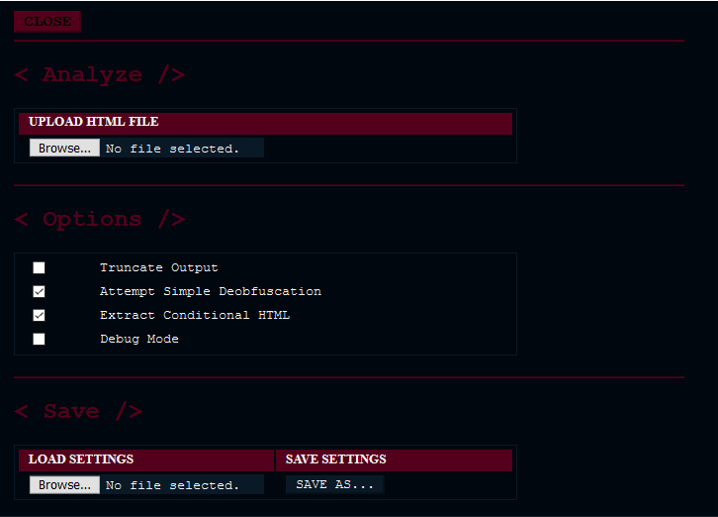
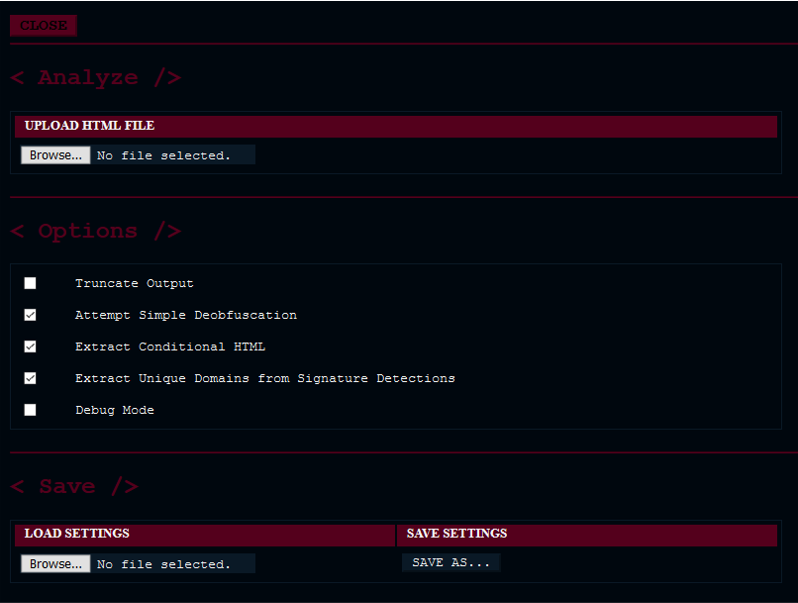
VERSION 1.2.1

Changed region(s): [[0.0, 0.1238, 1.0, 0.8356], [0.0, 0.8665, 0.9805, 0.9594], [0.0, 0.0, 1.0, 0.0928]]

diff --git a/LinkRippr.html b/LinkRippr.html
@@ -43,7 +43,7 @@
 </div>
 
 <div id="footer">
-    <p id="author" align="center">Samuel Brookes | <a href="https://github.com/sjb-ch1mp/LinkRippr/blob/master/README.md" target="_blank">README</a> | VERSION 1.2.0 </p>
+    <p id="author" align="center">Samuel Brookes | <a href="https://github.com/sjb-ch1mp/LinkRippr/blob/master/README.md" target="_blank">README</a> | VERSION 1.2.1 </p>
 </div>
 
 </body>

diff --git a/README.md b/README.md
@@ -66,7 +66,12 @@ User options are located in the _SETTINGS_ panel under `< Options />` (screensho
 |Truncate Output|Any lines in the summary that are greater than 100 characters long will be truncated to 97 characters plus '...'. This option simply makes the output more readable.|OFF|
 |Attempt Simple Deobfuscation|LinkRippr will attempt to deobfuscate simple JavaScript methods that are commonly used to hide malicious content in a HTML file. This is a very limited feature and is not able to evaluate complex JavaScript obfuscation techniques. An example of a successful deobfuscation is shown below.|ON|
 |Extract Conditional HTML|LinkRippr will check comments, denoted in HTML by the marker `<!`, for [conditional comments](https://en.wikipedia.org/wiki/Conditional_comment), and include any that are detected (and are not empty) in the summary. An example is shown below, as detected in the [W3 - Learn HTML](https://www.w3schools.com/html/default.asp) page.|ON|
+|Extract Unique Domains from Signature Detections|LinkRippr will extract all domains from URL-like detections and compile them in a list of unique domains (see an example below from the [W3 - Learn HTML](https://www.w3schools.com/html/default.asp) page).|ON|
 |Debug Mode|This mode will dump all the tokens generated by the [DOM Parser](https://github.com/sjb-ch1mp/LinkRippr/blob/master/js/dom_parser.js) to the summary panel. This option is used to debug the tokenizer and parser.|OFF|
+
+**Example of unique domains extracted from HTML, JavaScript and CSS signature detections:**
+
+![unique-domains](https://github.com/sjb-ch1mp/LinkRippr/blob/master/img/readme/unique-domains.png)
 
 **Example of Successful Simple Deobfuscation:**
 
@@ -349,3 +354,4 @@ The banner for LinkRippr was adapted from an image posted at [wallup.net](https:
 |2020-11-24 | BUG | 1.0.1 |Added try-catch clause to StyleBlock.processRuleSets() to catch exceptions caused by malformed CSS rule sets ([#Issue 30](https://github.com/sjb-ch1mp/LinkRippr/issues/30)).|
 |2020-11-24 | FEATURE | 1.0.1 | LinkRippr is now checking style attributes of all elements for CSS signatures ([#Issue 23](https://github.com/sjb-ch1mp/LinkRippr/issues/23)).|
 |2020-11-28 | FEATURE | 1.2.0 | Wildcards and Regex implemented for HTML signatures. Significant refactoring. Output simplified and modernised ([#Issue 26](https://github.com/sjb-ch1mp/LinkRippr/issues/26), [#Issue 32](https://github.com/sjb-ch1mp/LinkRippr/issues/32))|
+|2020-11-29 | FEATURE | 1.2.1 | LinkRippr now compiling a list of unique domains from URL-like signature detections. |
